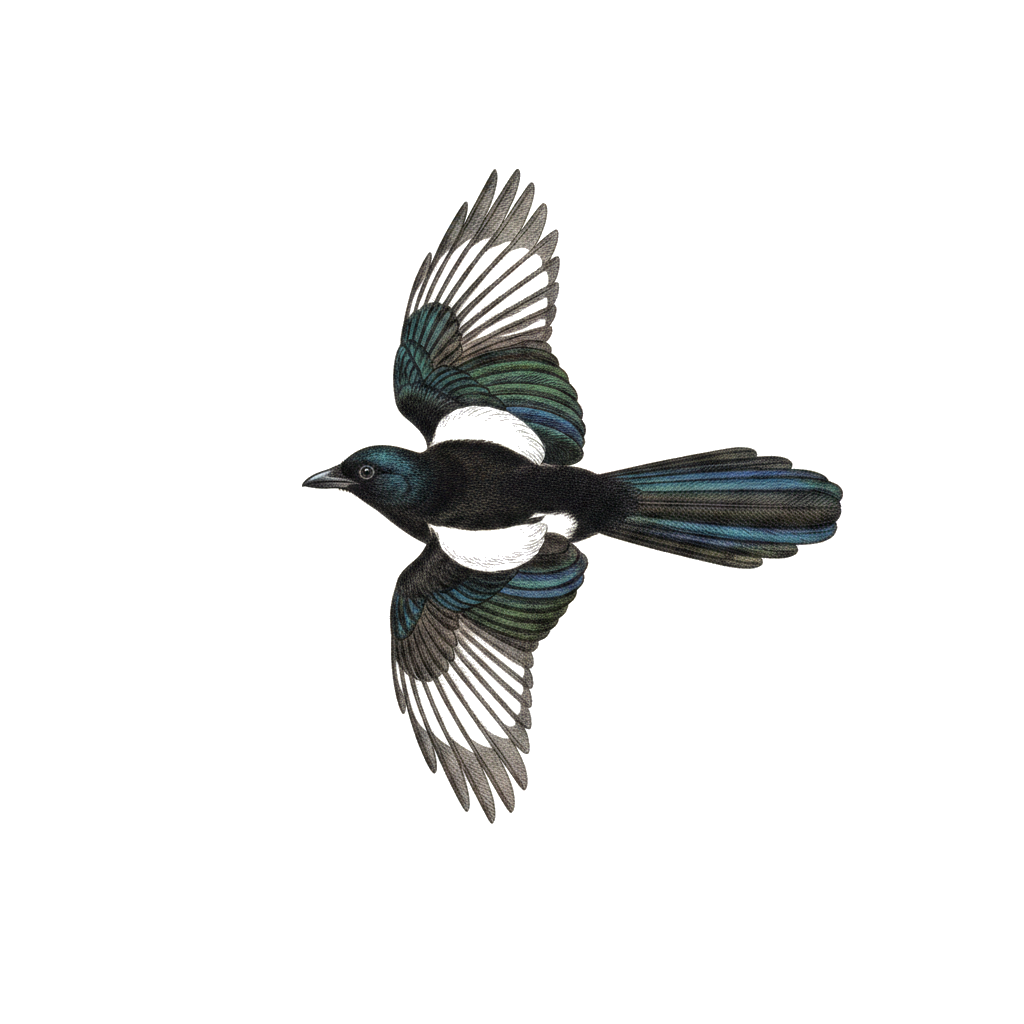
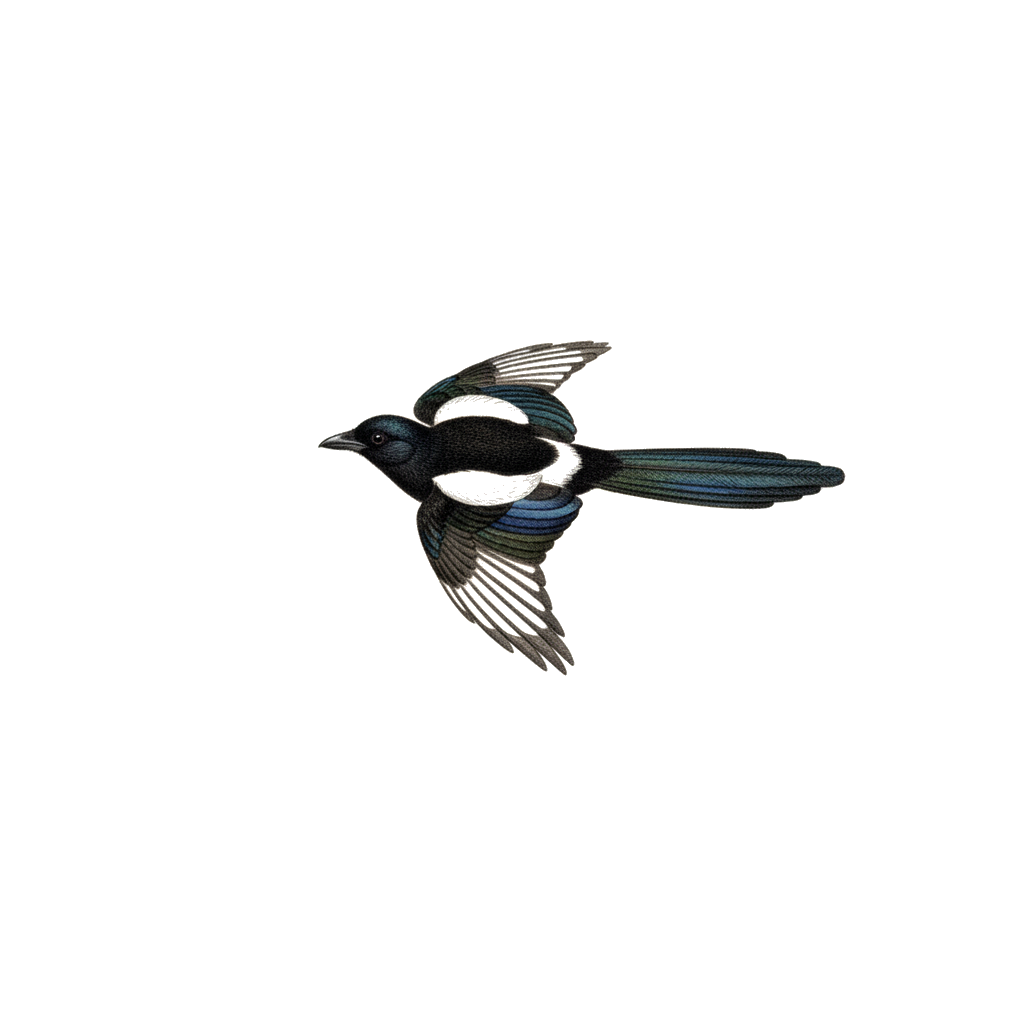
Sorter lista paa sikkerhet, og bygg pusse-instruksen av det som staar i bildet
Sorteringen laa paa belegg -- flest oekter foerst -- med den begrunnelsen at
en art hoert i flere oekter er mer troverdig enn én med hoey score i én
tre-sekunders bit. I praksis ga det feil svar: myrriksa la seg oeverst med
58 % og fire oekter, og en myrrikse i en hage paa Hagen er et av de klassiske
BirdNET-feiltreffene. Fire svake treff paa samme feil art er fortsatt fire
svake treff. Naa staar hoeyest score oeverst; --sortering belegg gir den
gamle oppfoerselen.

Pusse-instruksen var en fast tekst om aa faa fuglene til aa "sitte paa veden
de staar paa". Paa myrmalen ga det tull: en flygende skjaere har ingen ved aa
sitte paa, saa modellen tegnet inn en stubbe og satte den paa den. Instruksen
bygges naa av plasseringene -- den vet hvem som sitter paa grein, hvem som
staar i sivet og hvem som flyr, og sier eksplisitt at fugler i lufta skal BLI
i lufta og at ingenting nytt skal legges til.

--ny-fugl 'Genus art' tegner en art paa nytt selv om bildet finnes. Bildene
er tilfeldige, og av og til vil man bare ha en ny variant uten aa slette
filer for haand. Brukt til aa tegne skjaera i flukt paa nytt -- den forrige
var sett rett ovenfra.

Changed region(s): [[0.2812, 0.1562, 0.8438, 0.8125]]

diff --git a/tools/compose_branch.py b/tools/compose_branch.py
@@ -49,6 +49,10 @@ FUGL_DIR = os.path.join(PLATES_DIR, "fugler")
 # Settes fra --nye-fotpunkter i main().
 NYE_FOTPUNKTER = False
 PUSS_MODELL = None
+# Latinske navn som skal tegnes paa nytt selv om fila finnes
+# (--ny-fugl). Bildene er tilfeldige, saa av og til vil man bare ha
+# en ny variant uten aa slette filer for haand.
+NY_FUGL: set = set()
 
 # Festepunkter langs grenen: (x_senter, y_foetter, hoeyde, speilvendt).
 # y-verdiene er lest ut av gren.png — der grenen faktisk har en overflate paa
@@ -213,6 +217,8 @@ def ensure_bird(s: dict, positur: str = "sittende",
     if positur == "flyvende":
         navn += "-flyvende"
     dest = os.path.join(FUGL_DIR, navn + ".png")
+    if sci.strip().lower() in NY_FUGL:
+        force = True
     if os.path.exists(dest) and not force:
         return dest
     forelegg = plate_path(sci)
@@ -507,7 +513,7 @@ def compose(species: list[dict], mal: dict) -> tuple[Image.Image, list[dict]]:
         # Boksen tas vare paa saa sida kan sette et tall ved fuglen som
         # peker tilbake i artslista. Koordinatene er i arkets piksler
         # (1200x1600), som er noeyaktig panelets -- ingen omregning senere.
-        plassert.append({**s, "boks": list(boks), "fot": [x, y]})
+        plassert.append({**s, "boks": list(boks), "fot": [x, y], "type": typ})
     return ark, plassert
 
 
@@ -520,24 +526,52 @@ def compose(species: list[dict], mal: dict) -> tuple[Image.Image, list[dict]]:
 # sonene paa nytt etterpaa, og et forsoek som skitner til tekstfeltet blir
 # FORKASTET -- da beholder vi den lokale versjonen. Garantien ligger i
 # maalingen, ikke i tilliten.
-PUSS_PROMPT = (
-    "This is an antique bird plate: birds standing on a bare branch, on white "
-    "paper. Each bird is already in the right place, at the right size. "
-    "Your job is to make every bird look like it is genuinely PERCHED on the "
-    "wood it stands on, not pasted on top of it. "
-    "You MAY: rotate or tilt a bird a little so its posture follows the angle "
-    "of its branch; redraw its legs, toes and claws so they wrap around and "
-    "grip the wood; adjust how the tail hangs and how the body balances over "
-    "the feet; nudge a bird a few pixels so the feet meet the branch exactly; "
-    "and redraw the small area of branch where the feet touch. "
-    "You MUST NOT: change any bird's size, move a bird to a different branch "
-    "or a different part of the page, change which species is where, add or "
-    "remove birds, branches, twigs, leaves, text, captions or shadows. "
-    "Leave the empty white area alone — the left 48% of the width from the top "
-    "down to 75% of the height must stay completely empty white paper. "
-    "Keep the fine engraved linework and the hand-coloured lithograph style, "
-    "and keep the pure white background."
-)
+def puss_prompt(plassert: list[dict]) -> str:
+    """Pusse-instruksen, bygget av det som faktisk staar i bildet.
+
+    Den var foer en fast tekst om aa faa fuglene til aa «sitte paa veden de
+    staar paa». Paa myrmalen ga det tull: en flygende skjaere har ingen ved aa
+    sitte paa, saa modellen tegnet inn en stubbe og satte den paa den. Naa
+    faar den vite hva hver enkelt fugl gjoer -- og at ingenting nytt skal
+    legges til."""
+    typer = {p.get("type", "gren") for p in plassert}
+    oppgaver = []
+    if "gren" in typer:
+        oppgaver.append(
+            "The birds standing on branches: make their toes wrap around and "
+            "grip the wood, with correct contact and weight, and let each "
+            "bird's body and tail angle follow the branch it stands on.")
+    if "bakke" in typer:
+        oppgaver.append(
+            "The birds standing on the ground: plant their feet properly on "
+            "the mud or among the stems, so they stand in the vegetation "
+            "rather than on top of it.")
+    if "luft" in typer:
+        oppgaver.append(
+            "The birds in flight: they must STAY in flight, wings spread, "
+            "with open empty sky around and below them. Do not give them "
+            "anything to land on and do not fold their wings.")
+
+    return (
+        "This is an antique bird plate. Every bird is already in the right "
+        "place, at the right size, doing the right thing. "
+        "Your job is ONLY to make each bird belong in the scene instead of "
+        "looking pasted on top of it. "
+        + " ".join(oppgaver) + " "
+        "You MAY rotate or tilt a bird slightly, redraw its legs, toes and "
+        "claws, adjust how the tail hangs, nudge a bird a few pixels, and "
+        "redraw the small area where it meets what it stands on. "
+        "You MUST NOT add ANYTHING that is not already in the picture — no "
+        "new branch, perch, stump, twig, plant, ground or shadow. Do not add "
+        "or remove birds. Do not change any bird's size, do not move a bird "
+        "somewhere else, and do not change which species is where. "
+        "Leave the empty white area alone — the left 48% of the width from "
+        "the top down to 72% of the height must stay completely empty white "
+        "paper. "
+        "Keep the fine engraved linework, the hand-coloured lithograph style "
+        "and the pure white background."
+    )
+
 
 # Foreleggets oppløsning: hoeyere enn REF_MAX ellers i prosjektet, fordi
 # modellen her skal GJENSKAPE arket, ikke bare hente stil fra det.
@@ -563,7 +597,8 @@ def _god_nok(soner: dict, basis: dict) -> bool:
     return True
 
 
-def refine(ark: Image.Image, tries: int) -> tuple[Image.Image, dict, bool]:
+def refine(ark: Image.Image, tries: int,
+           plassert: list[dict]) -> tuple[Image.Image, dict, bool]:
     """Send arket tilbake for aa faa foettene til aa gripe. Returnerer
     (bilde, soner, ble_pusset). Faller tilbake paa originalen hvis ingen
     forsoek holder tekstsonen ren."""
@@ -573,7 +608,8 @@ def refine(ark: Image.Image, tries: int) -> tuple[Image.Image, dict, bool]:
     for forsoek in range(1, tries + 1):
         try:
             kandidat = fit_to_panel(whiten(
-                generate_image(PUSS_PROMPT, ref_images=[ref], aspect_ratio="3:4",
+                generate_image(puss_prompt(plassert), ref_images=[ref],
+                               aspect_ratio="3:4",
                                model=PUSS_MODELL)))
         except Exception as e:  # noqa: BLE001
             print(f"  puss {forsoek}/{tries} feilet: {str(e)[:120]}", file=sys.stderr)
@@ -745,6 +781,10 @@ def lag_mal(mal: dict, tries: int = 3) -> None:
 def main() -> int:
     ap = argparse.ArgumentParser(description="Sett dagens fugler paa grenen.")
     ap.add_argument("--birds", default=os.path.join(HERE, "birds.json"))
+    ap.add_argument("--ny-fugl", action="append", metavar="'Genus art'",
+                    default=[],
+                    help="tegn arten paa nytt selv om bildet finnes "
+                         "(kan gjentas)")
     ap.add_argument("--nye-fotpunkter", action="store_true",
                     help="bestem fotpunktene paa nytt (manuelt satte roeres ikke)")
     # gemini-3-pro-image gjoer pussetrinnet merkbart bedre enn
@@ -769,8 +809,9 @@ def main() -> int:
                     help="lag manglende 1:1-fugler og stopp")
     args = ap.parse_args()
 
-    global NYE_FOTPUNKTER, PUSS_MODELL
+    global NYE_FOTPUNKTER, PUSS_MODELL, NY_FUGL
     NYE_FOTPUNKTER, PUSS_MODELL = args.nye_fotpunkter, args.puss_modell
+    NY_FUGL = {a.strip().lower() for a in args.ny_fugl}
 
     if args.sjekk_foetter:
         sjekk_foetter(args.sjekk_foetter)
@@ -825,7 +866,7 @@ def main() -> int:
     ark = fit_to_panel(ark)
     pusset = False
     if args.puss > 0:
-        ark, soner, pusset = refine(ark, args.puss)
+        ark, soner, pusset = refine(ark, args.puss, plassert)
     else:
         soner = zone_report(ark)
     for navn, v in soner.items():

diff --git a/tools/render_daily_panel.py b/tools/render_daily_panel.py
@@ -112,14 +112,29 @@ def norsk_dato(d: datetime.date) -> tuple[str, str]:
     return UKEDAGER[d.weekday()], f"{d.day}. {MAANEDER[d.month - 1]} {d.year}"
 
 
-def split_species(species: list[dict], max_rows: int | None = None) -> tuple[list[dict], list[dict]]:
-    """Del i «hoert» (paa veggen) og «ogsaa mulige» (fotnote). Sortert paa
-    hvor godt belagt arten er: flere oekter > flere deteksjoner > hoeyere
-    konfidens. En art hoert i to oekter er mer troverdig enn én med hoey score
-    i én enkelt tre-sekunders bit."""
-    ordered = sorted(species, key=lambda s: (-s.get("sessions", 1),
-                                             -s.get("detections", 0),
-                                             -s.get("confidence", 0.0)))
+# Hva som skal staa oeverst i lista.
+#   "sikkerhet" -- hoeyest BirdNET-score foerst (standard)
+#   "belegg"    -- flest oekter foerst, saa deteksjoner, saa score
+#
+# Det var "belegg" foerst, med den begrunnelsen at en art hoert i flere oekter
+# er mer troverdig enn én med hoey score i én tre-sekunders bit. I praksis ga
+# det feil svar: myrriksa dukket opp i fire oekter paa 58 % og la seg oeverst,
+# selv om en myrrikse i en hage paa Hagen er et av de klassiske
+# BirdNET-feiltreffene. Fire svake treff paa samme feil art er fortsatt fire
+# svake treff.
+SORTERING = os.environ.get("PANEL_SORTERING", "sikkerhet")
+
+
+def split_species(species: list[dict], max_rows: int | None = None,
+                  sortering: str | None = None) -> tuple[list[dict], list[dict]]:
+    """Del i «hoert» (paa veggen) og «ogsaa mulige» (fotnote)."""
+    if (sortering or SORTERING) == "belegg":
+        noekkel = lambda s: (-s.get("sessions", 1), -s.get("detections", 0),  # noqa: E731
+                             -s.get("confidence", 0.0))
+    else:
+        noekkel = lambda s: (-s.get("confidence", 0.0), -s.get("sessions", 1),  # noqa: E731
+                             -s.get("detections", 0))
+    ordered = sorted(species, key=noekkel)
     sure = [s for s in ordered
             if s.get("confidence", 0) >= SURE_CONF or s.get("sessions", 1) >= 2]
     unsure = [s for s in ordered if s not in sure]
@@ -318,7 +333,7 @@ def species_card(s: dict, bar: bool = False, nr: int | None = None) -> str:
 
 
 def build_html(birds: dict, weather: dict | None, pute: str = "maalt",
-               bar: bool = False) -> str:
+               bar: bool = False, sortering: str | None = None) -> str:
     """pute styrer den hvite flaten under teksten i overlegget:
     'maalt'  -- bare der compose_hero maalte at sonen ikke ble tom (standard)
     'alltid' -- alltid, uansett maaling (tryggest, mest synlig)
@@ -328,7 +343,7 @@ def build_html(birds: dict, weather: dict | None, pute: str = "maalt",
     ukedag, dato = norsk_dato(date)
     bg_meta = todays_background(birds.get("date", ""))
     sure, unsure = split_species(birds.get("species", []),
-                                 OVERLAY_ROWS if bg_meta else None)
+                                 OVERLAY_ROWS if bg_meta else None, sortering)
     sessions = birds.get("sessions_today", 0)
 
     hero_meta = None if bg_meta else todays_hero(birds.get("date", ""))
@@ -658,6 +673,9 @@ def main():
     ap.add_argument("--birds", default="test/data/birds-2026-08-28.json")
     ap.add_argument("--out", default="test/panel.html")
     ap.add_argument("--no-weather", action="store_true")
+    ap.add_argument("--sortering", choices=("sikkerhet", "belegg"),
+                    default=SORTERING,
+                    help="hva som staar oeverst i lista")
     ap.add_argument("--bar", choices=("av", "paa"),
                     default=os.environ.get("PANEL_BAR", "av"),
                     help="vis konfidens-baren i tillegg til prosenten "
@@ -670,7 +688,7 @@ def main():
     birds = load_birds(args.birds)
     weather = None if args.no_weather else get_weather()
     out = build_html(birds, weather, pute=args.pute,
-                     bar=(args.bar == "paa"))
+                     bar=(args.bar == "paa"), sortering=args.sortering)
     os.makedirs(os.path.dirname(os.path.abspath(args.out)), exist_ok=True)
     with open(args.out, "w") as f:
         f.write(out)
